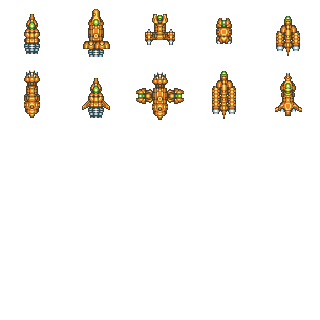
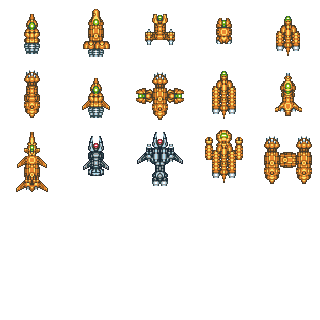
Added new ship images.

diff --git a/src/org/openRealmOfStars/player/ship/ShipImage.java b/src/org/openRealmOfStars/player/ship/ShipImage.java
@@ -68,11 +68,20 @@ public class ShipImage {
   public static final int MEDIUM_STARBASE = 7;
   public static final int MEDIUM_FREIGHTER = 8;
   public static final int CRUISER = 9;
+  public static final int BATTLESHIP = 10;
+  public static final int PRIVATEER = 11;
+  public static final int PRIVATEER_LARGE = 12;
+  public static final int LARGE_FREIGHTER = 13;
+  public static final int LARGE_STARBASE = 14;
+  public static final int BATTLECRUISER = 15;
+  public static final int MASSIVE_FREIGHTER = 16;
+  public static final int MASSIVE_STARBASE = 17;
+  public static final int CAPITAL_SHIP = 18;
   
   /**
    * Must be one bigger than last ship
    */
-  private static final int NUMBER_OF_IMAGES = 10;
+  private static final int NUMBER_OF_IMAGES = 15;
   
   /**
    * Initialize ship images
@@ -103,6 +112,16 @@ public class ShipImage {
     smallShipImages[MEDIUM_FREIGHTER] = scaleTo32x32(shipImages[MEDIUM_FREIGHTER]);
     shipImages[CRUISER] = image64x64(image,4,1);
     smallShipImages[CRUISER] = scaleTo32x32(shipImages[CRUISER]);
+    shipImages[BATTLESHIP] = image64x64(image,0,2);
+    smallShipImages[BATTLESHIP] = scaleTo32x32(shipImages[BATTLESHIP]);
+    shipImages[PRIVATEER] = image64x64(image,1,2);
+    smallShipImages[PRIVATEER] = scaleTo32x32(shipImages[PRIVATEER]);
+    shipImages[PRIVATEER_LARGE] = image64x64(image,2,2);
+    smallShipImages[PRIVATEER_LARGE] = scaleTo32x32(shipImages[PRIVATEER_LARGE]);
+    shipImages[LARGE_FREIGHTER] = image64x64(image,3,2);
+    smallShipImages[LARGE_FREIGHTER] = scaleTo32x32(shipImages[LARGE_FREIGHTER]);
+    shipImages[LARGE_STARBASE] = image64x64(image,4,2);
+    smallShipImages[LARGE_STARBASE] = scaleTo32x32(shipImages[LARGE_STARBASE]);
   }
   
   private BufferedImage image64x64(BufferedImage image, int x, int y) throws

diff --git a/src/org/openRealmOfStars/player/ship/ShipHullFactory.java b/src/org/openRealmOfStars/player/ship/ShipHullFactory.java
@@ -165,7 +165,7 @@ public class ShipHullFactory {
       return tmp;
     }
     if (index == 18) {
-      tmp = new ShipHull(index, "Battle cruiser Mk2", 9, 2, ShipHullType.NORMAL,
+      tmp = new ShipHull(index, "Battle cruiser Mk1", 9, 2, ShipHullType.NORMAL,
           ShipSize.LARGE,12,12,race);
       return tmp;
     }
@@ -213,7 +213,7 @@ public class ShipHullFactory {
       return tmp;
     }
     if (index == 27) {
-      tmp = new ShipHull(index, "Battle cruiser Mk3", 9, 3, ShipHullType.NORMAL,
+      tmp = new ShipHull(index, "Battle cruiser Mk2", 9, 3, ShipHullType.NORMAL,
           ShipSize.LARGE,18,18,race);
       return tmp;
     }
